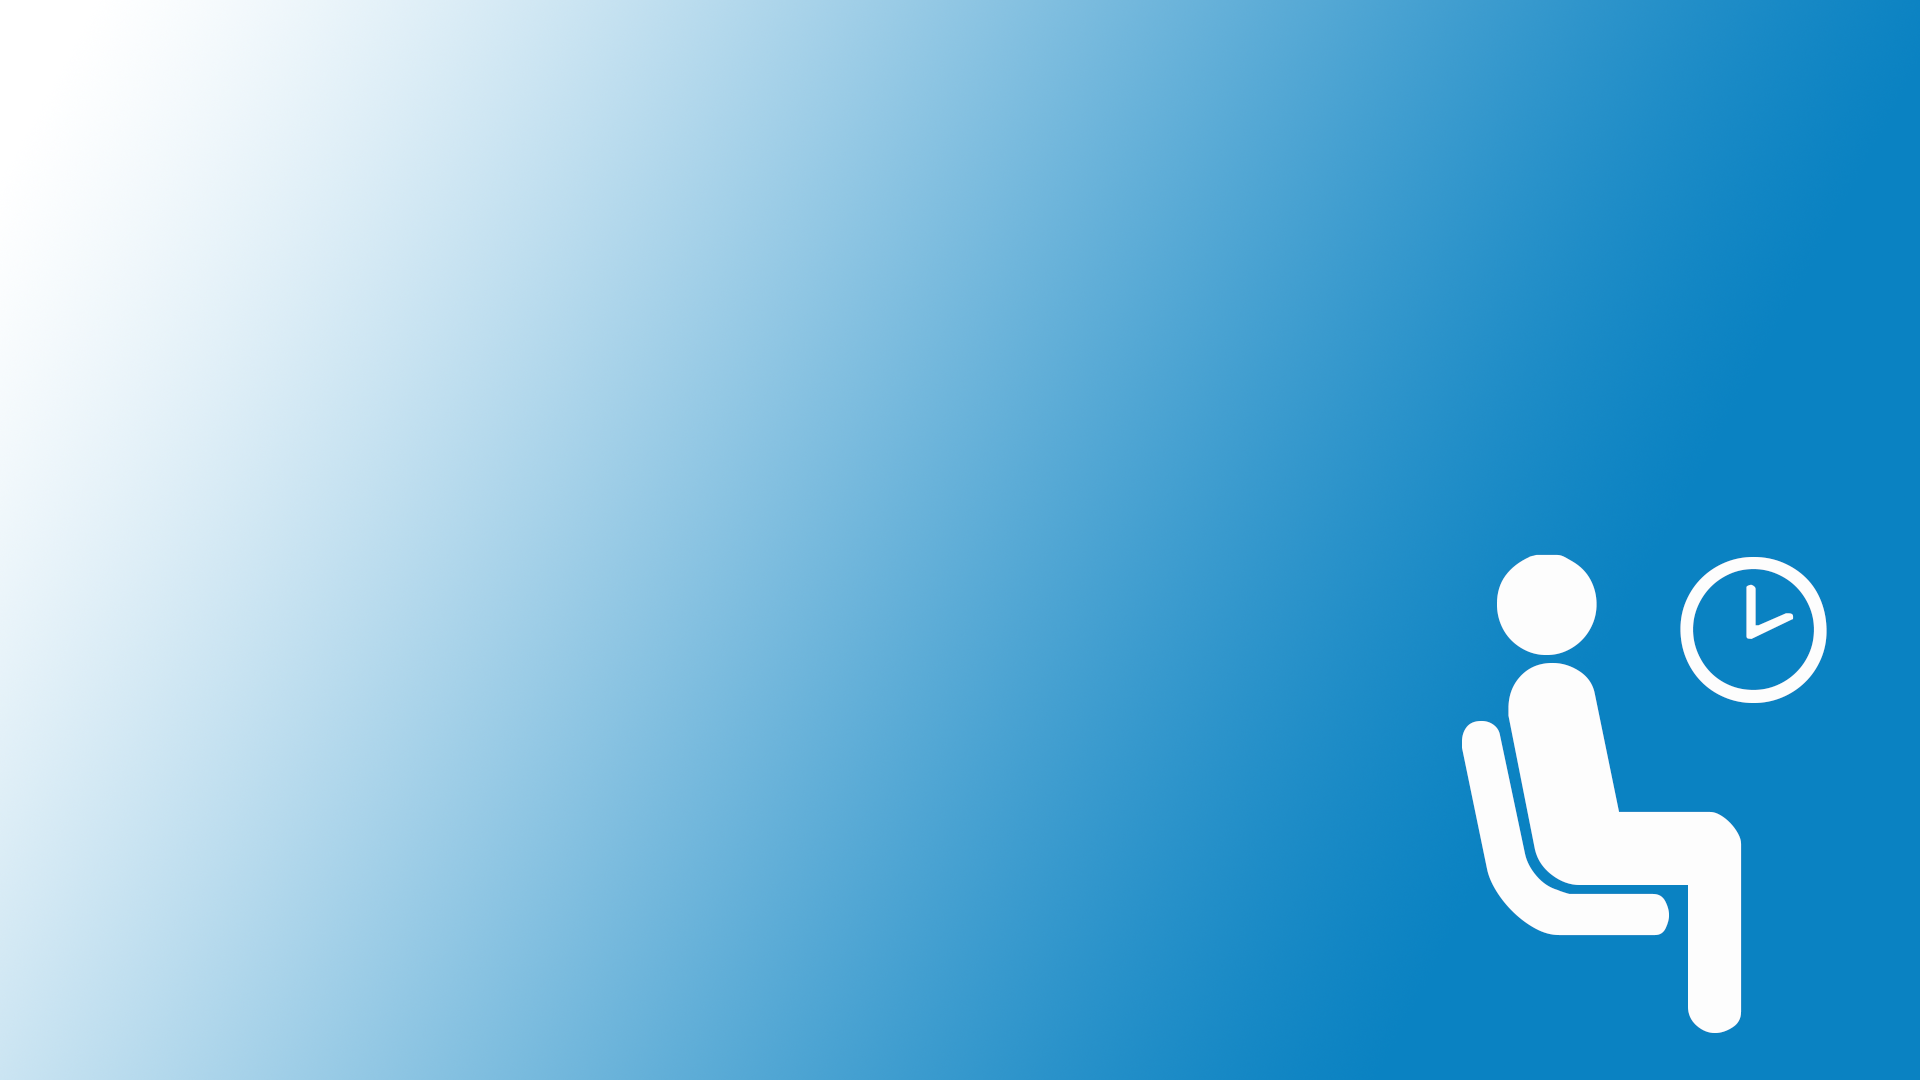
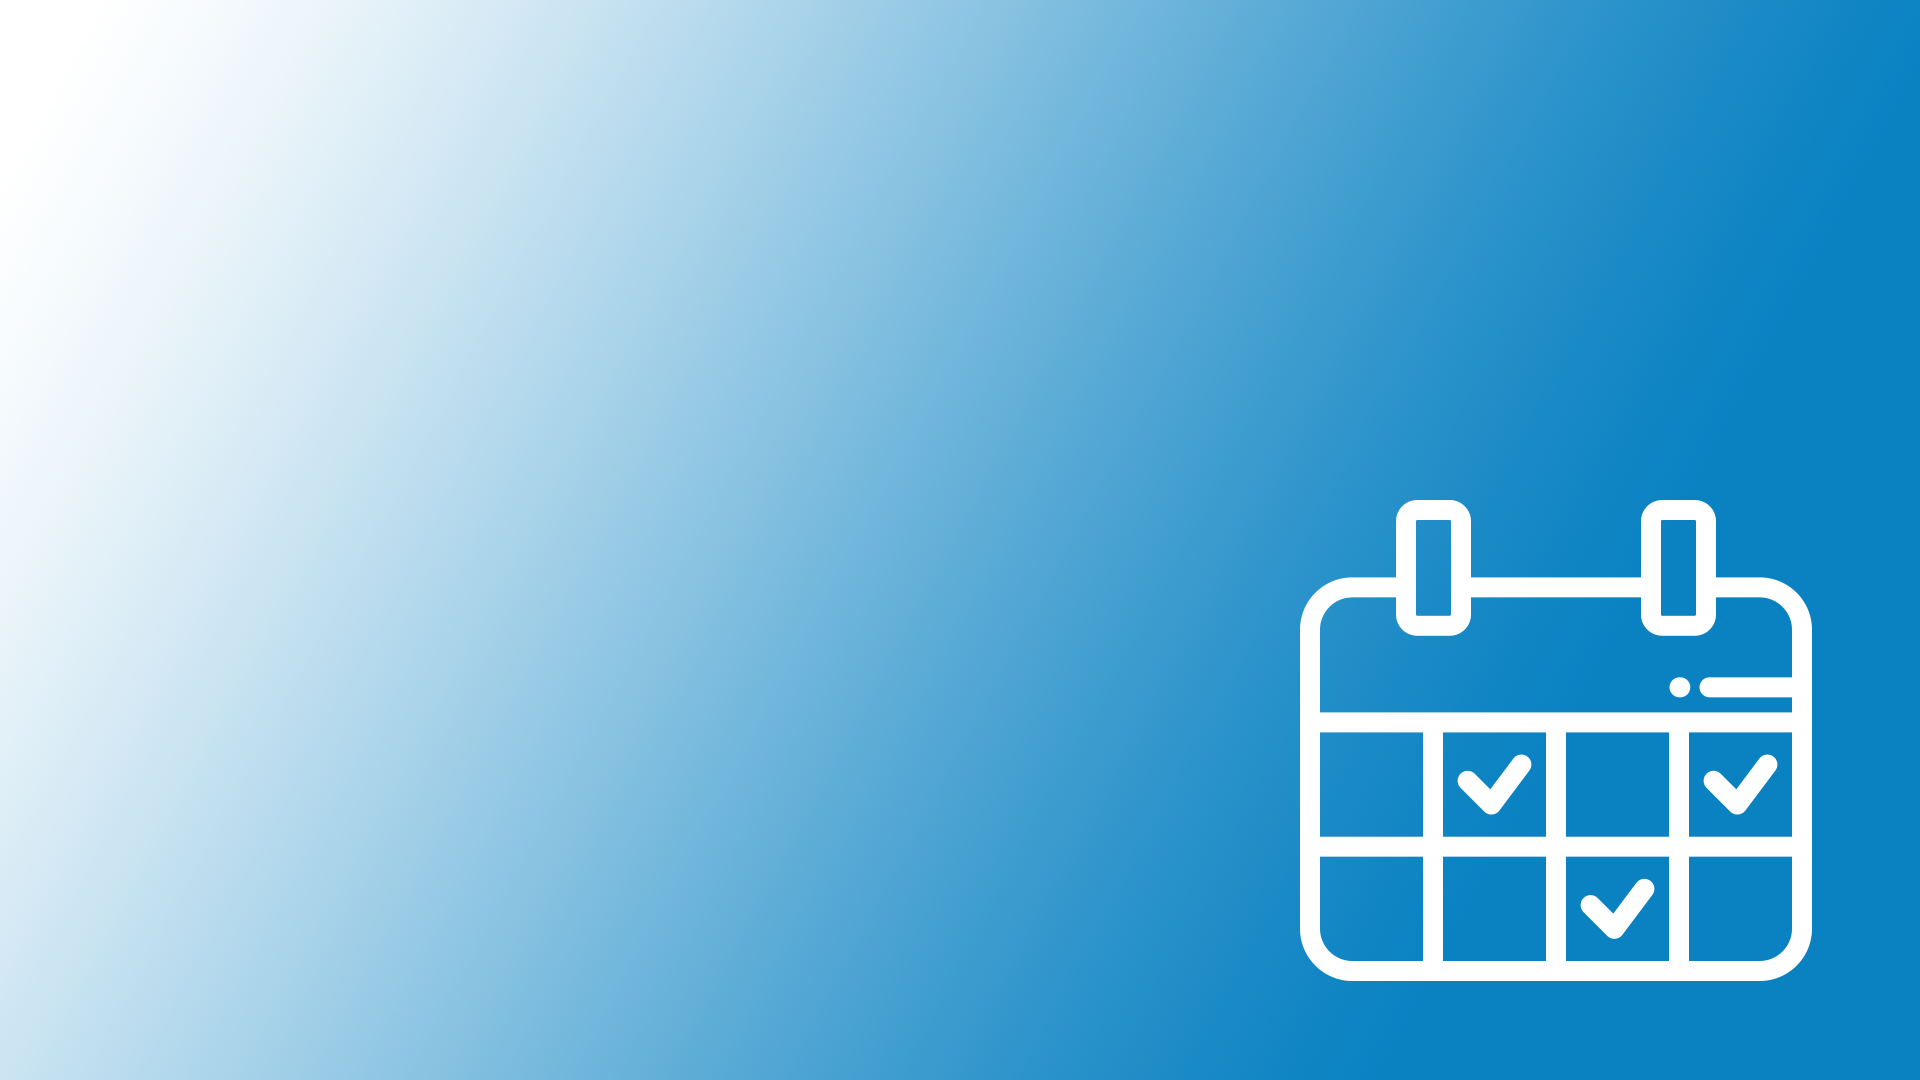
Cambios de fondos

Changed region(s): [[0.6562, 0.4583, 0.9688, 0.9778]]

diff --git a/WpfSQLite/View/MainPage.xaml b/WpfSQLite/View/MainPage.xaml
@@ -31,10 +31,10 @@
          </Grid.RowDefinitions>
 
          <Viewbox Grid.Row="0"  Margin="10,10,10,10">
-            <Button x:Name="start"  Style="{StaticResource MetroButton}"  Content="Por Usuario" MaxHeight="20" MinWidth="50" Click="Start_OnClick"/>
+            <Button x:Name="start"  Style="{StaticResource MetroButton}"  Content=" Por Usuario " MaxHeight="20" MinWidth="50" Click="Start_OnClick"/>
          </Viewbox>
          <Viewbox Grid.Row="1" Margin="10,10,10,10">
-            <Button x:Name="help" Style="{StaticResource MetroButton}" Content="Por División" MaxHeight="20" MinWidth="50" Click="help_Click" />
+            <Button x:Name="help" Style="{StaticResource MetroButton}" Content=" Por División " MaxHeight="20" MinWidth="50" Click="help_Click" />
          </Viewbox>
          <Viewbox Grid.Row="2"  Margin="10,10,10,10" >
             <Button x:Name="exit" Style="{StaticResource MetroButton}" Content="       Exit       " MaxHeight="20"  MinWidth="50" Click="Exit_OnClick" />

diff --git a/WpfSQLite/Common/Dictionary.xaml b/WpfSQLite/Common/Dictionary.xaml
@@ -15,7 +15,7 @@
    <Style x:Key="GenericPageStyleInit" TargetType="{x:Type Page}">
       <Setter Property="Background">
          <Setter.Value>
-            <ImageBrush ImageSource="../Resources/Mainbg.png"/>
+            <ImageBrush ImageSource="../Resources/fondoPrincipal.png"/>
          </Setter.Value>
       </Setter>
    </Style>
@@ -23,7 +23,7 @@
    <Style x:Key="GenericPageStyle" TargetType="{x:Type Page}">
       <Setter Property="Background">
          <Setter.Value>
-            <ImageBrush ImageSource="../Resources/bg.png" />
+            <ImageBrush ImageSource="../Resources/fondo.png" />
          </Setter.Value>
       </Setter>
    </Style>

diff --git a/WpfSQLite/Properties/Resources.Designer.cs b/WpfSQLite/Properties/Resources.Designer.cs
@@ -133,6 +133,16 @@ namespace Presencia.Properties {
         /// <summary>
         ///   Busca un recurso adaptado de tipo System.Drawing.Bitmap.
         /// </summary>
+        internal static System.Drawing.Bitmap fondoPrincipal {
+            get {
+                object obj = ResourceManager.GetObject("fondoPrincipal", resourceCulture);
+                return ((System.Drawing.Bitmap)(obj));
+            }
+        }
+        
+        /// <summary>
+        ///   Busca un recurso adaptado de tipo System.Drawing.Bitmap.
+        /// </summary>
         internal static System.Drawing.Bitmap Mainbg {
             get {
                 object obj = ResourceManager.GetObject("Mainbg", resourceCulture);
